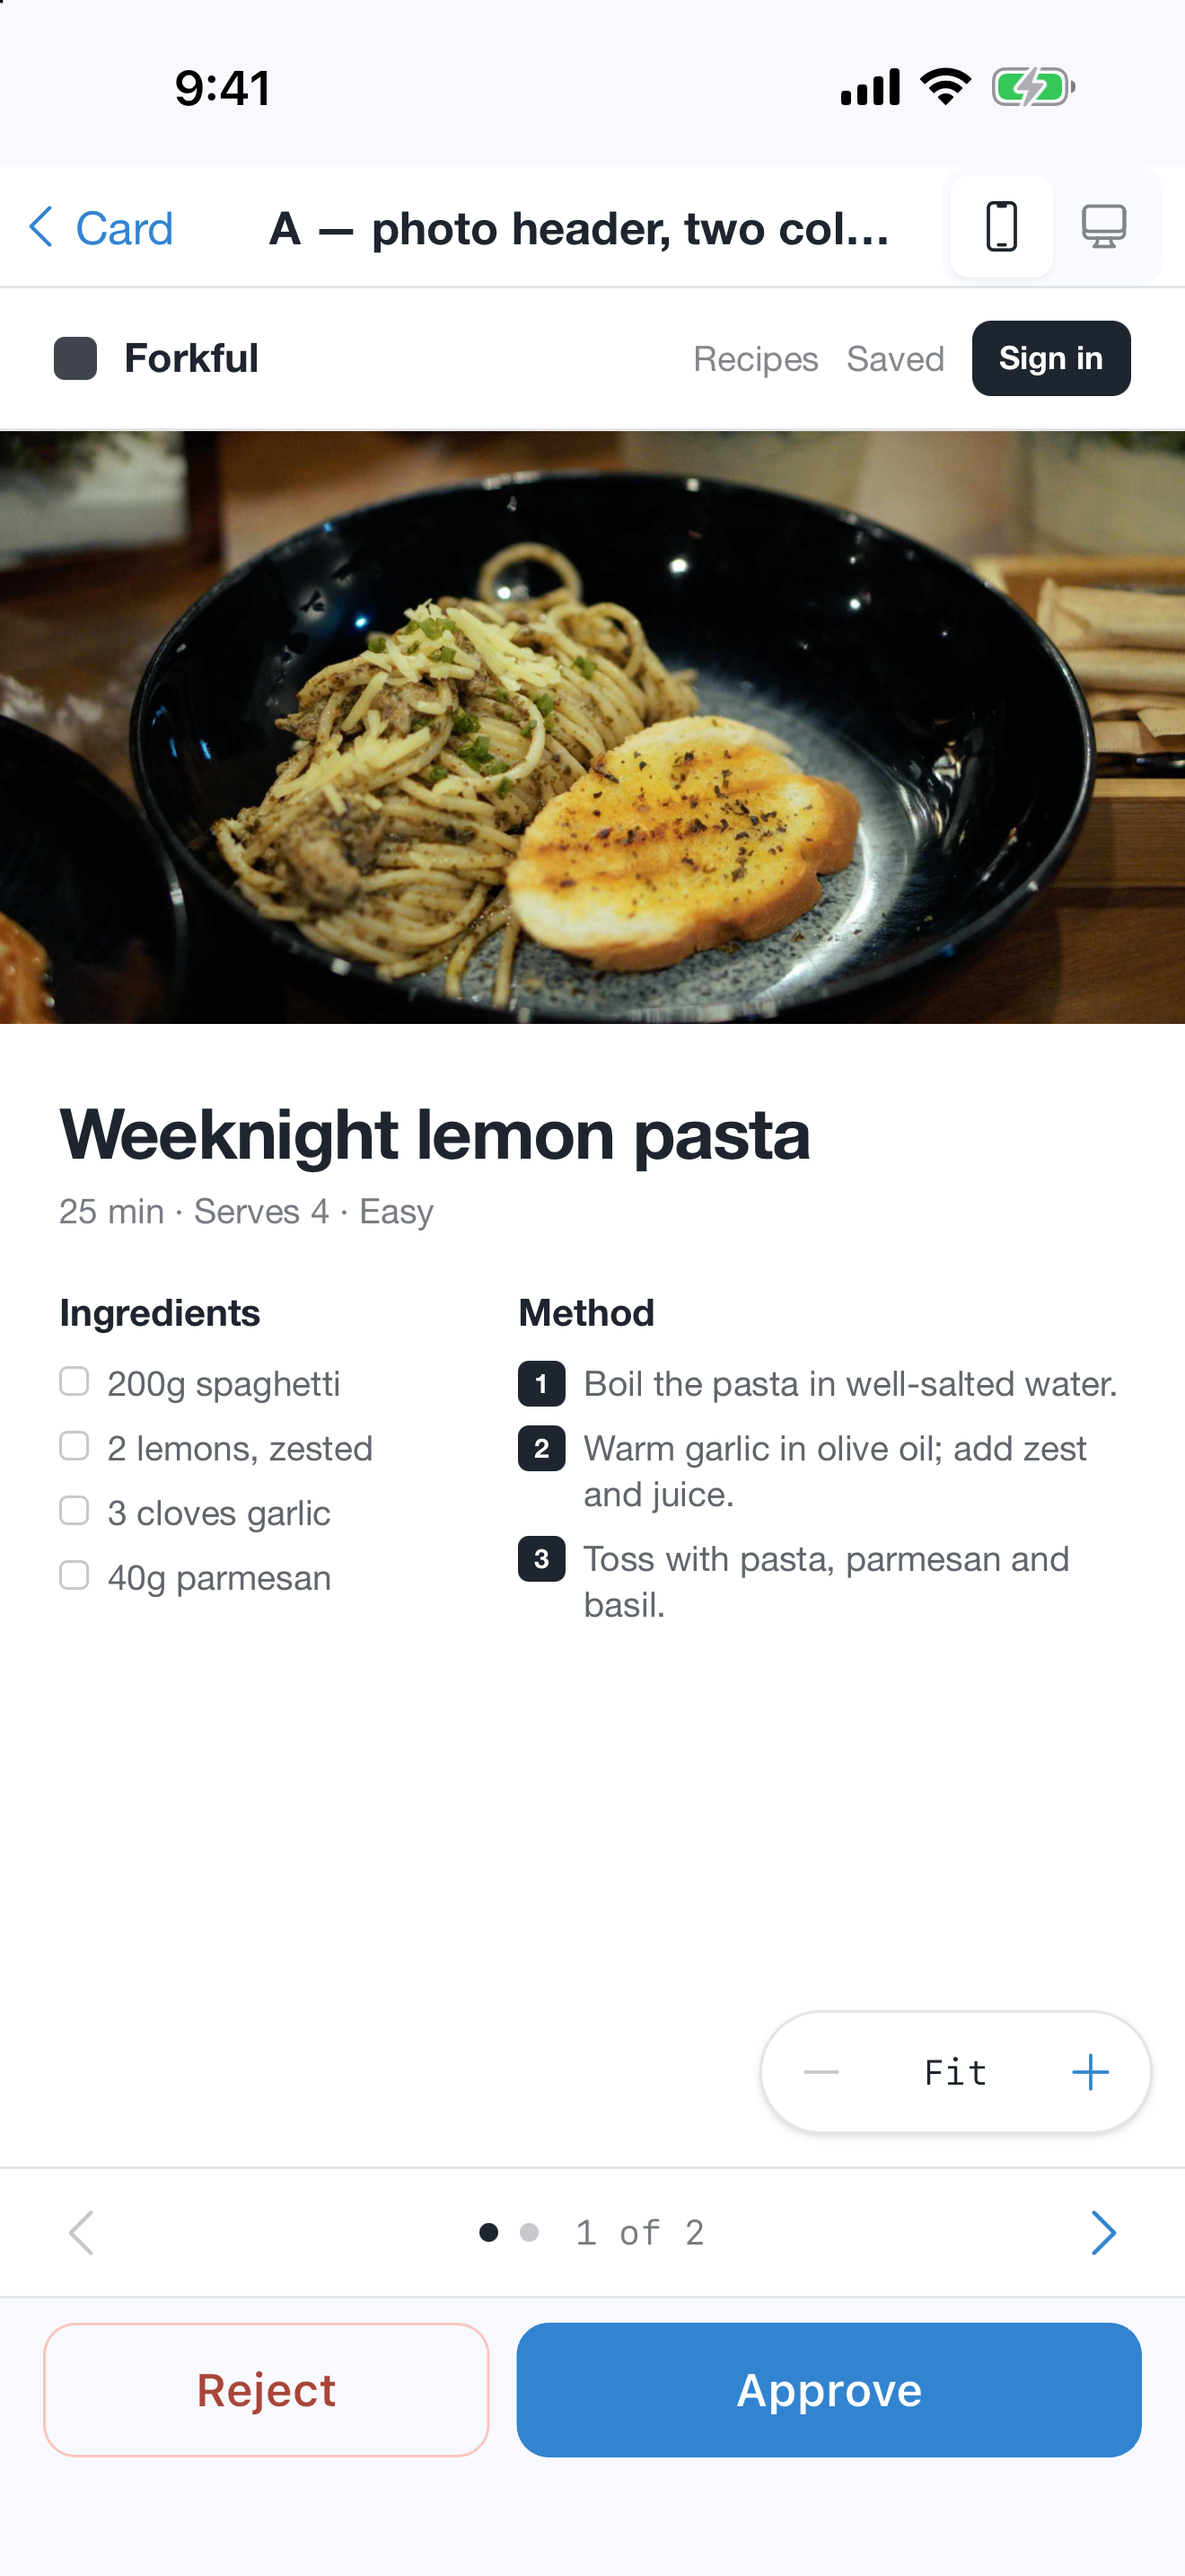
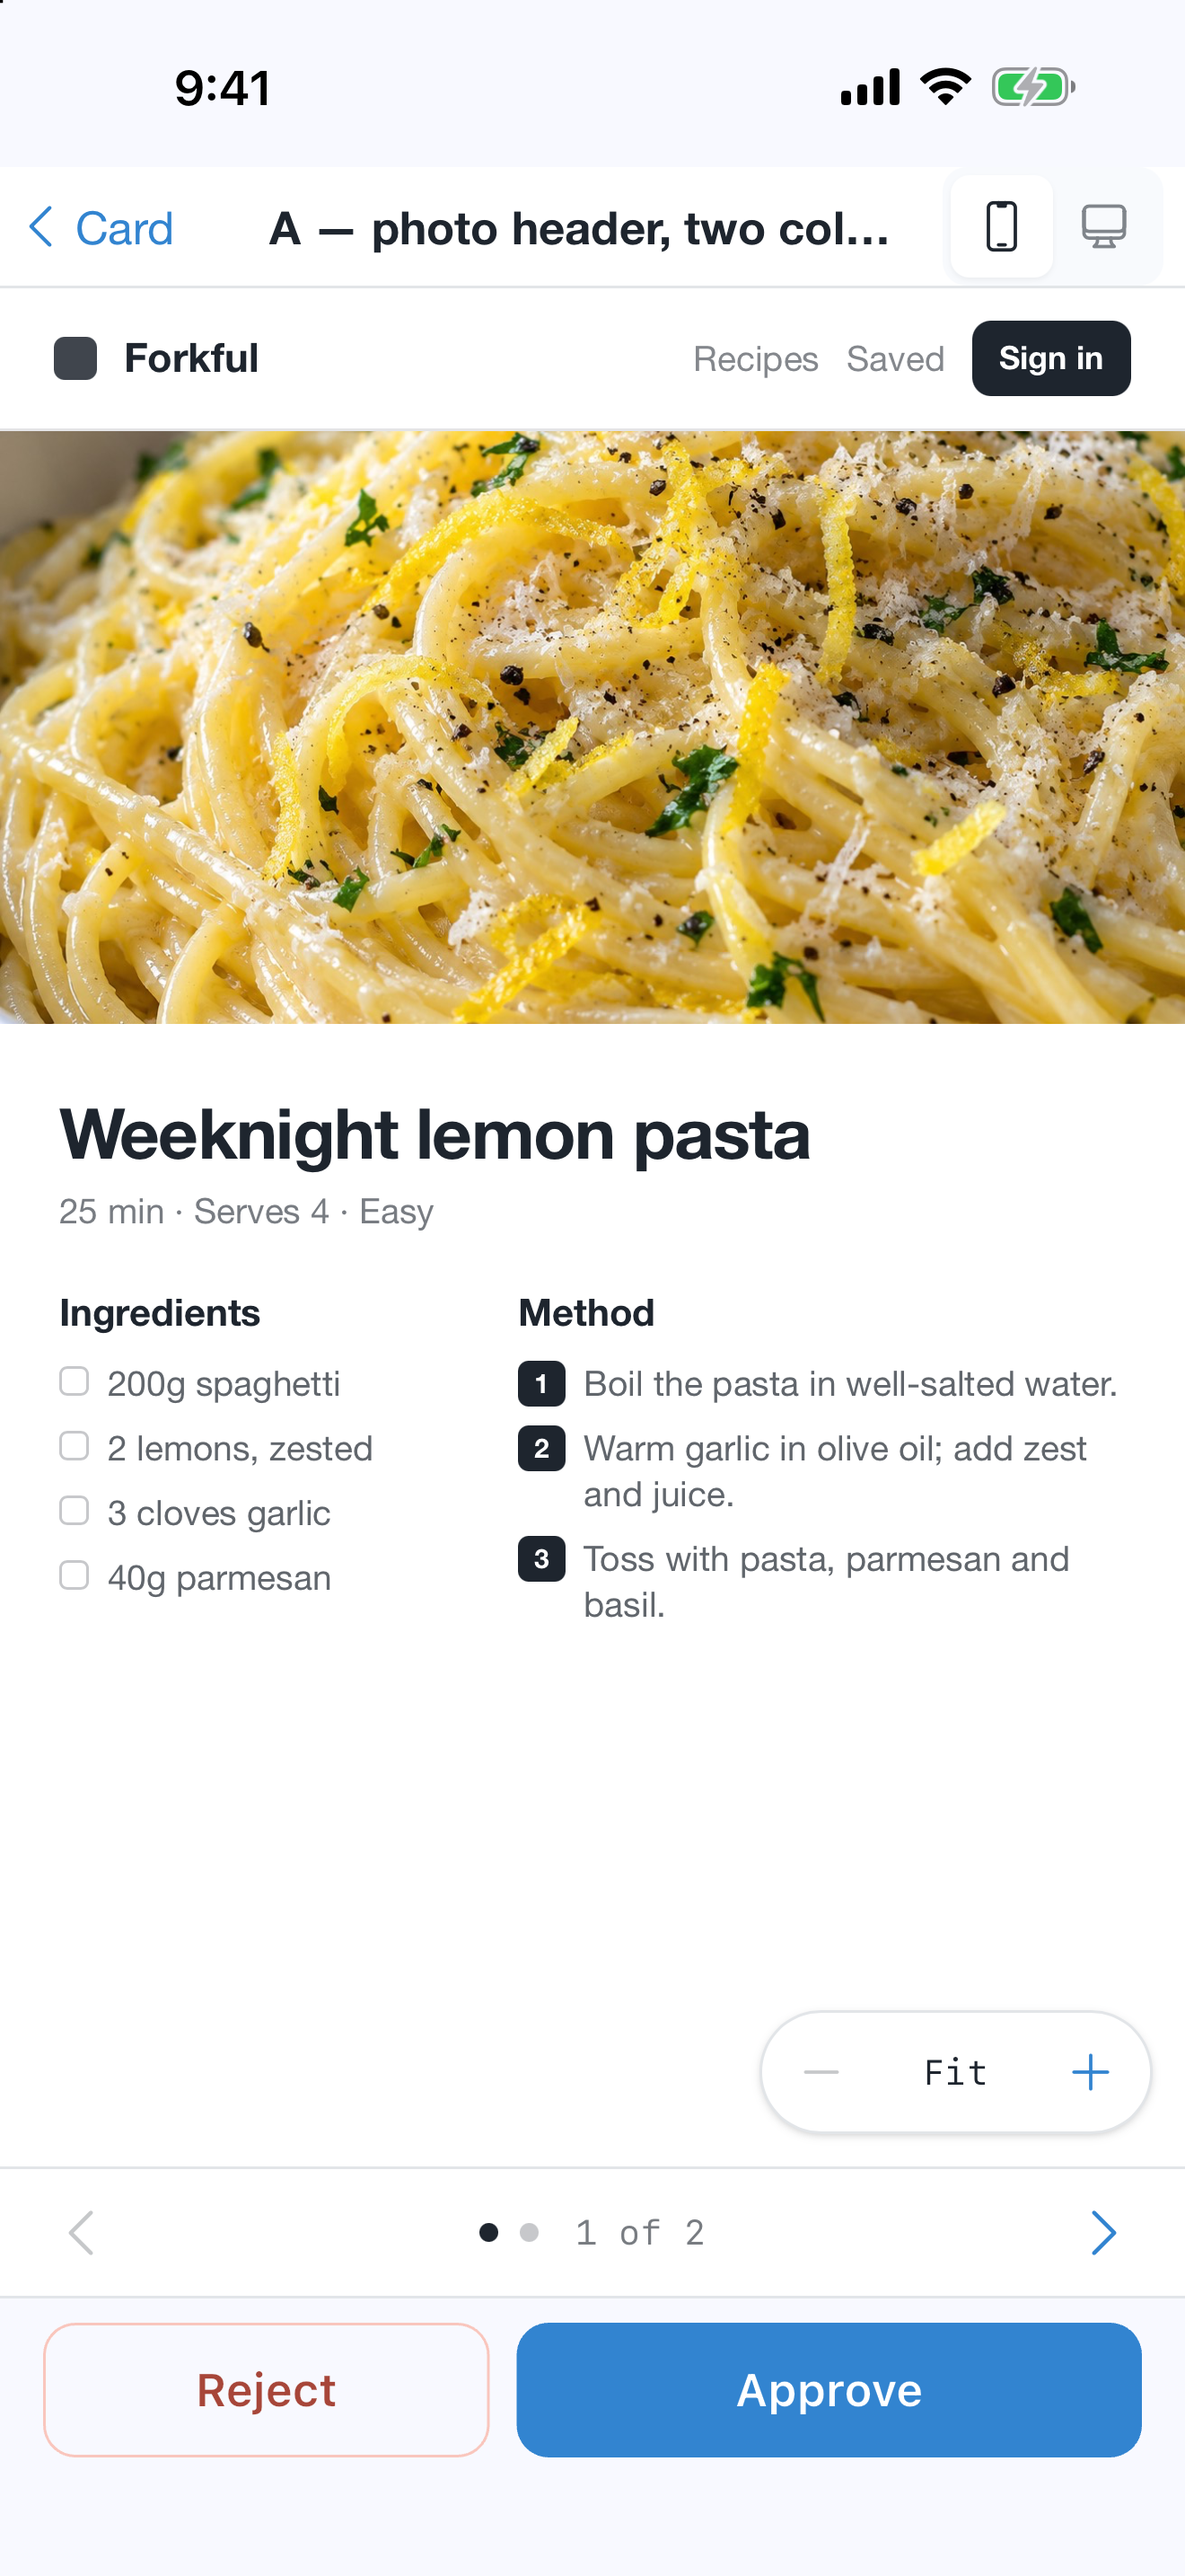
Ship the iOS app iPhone-only and recapture the store shots with our own photo
The App Store asks for 13" iPad screenshots while the target includes iPad, and the
app is designed for phones, so TARGETED_DEVICE_FAMILY is now 1 (iPads still run it
as an iPhone app) and the dead iPad orientations are gone from Info.plist.

The Forkful recipe mockup now uses a photo supplied for the store shots
("Silky lemon spaghetti with Parmesan"), and the four App Store screenshots are
recaptured and reframed from it.

Claude-Session: https://claude.ai/code/session_01YErjKsWJgihcVWjbbGVJNe

Changed region(s): [[0.0, 0.1552, 1.0, 0.4034]]

diff --git a/priv/repo/store_screenshot_seeds/PHOTO_SOURCE.md b/priv/repo/store_screenshot_seeds/PHOTO_SOURCE.md
@@ -6,12 +6,10 @@ The food photo inlined into the Forkful recipe-page mockups (`recipe_mockup_a.ht
 
 | | |
 |---|---|
-| Source page | https://commons.wikimedia.org/wiki/File:Pasta_Life.jpg |
-| File | https://upload.wikimedia.org/wikipedia/commons/4/42/Pasta_Life.jpg (original, 1920×1080, 106,846 bytes, unmodified) |
-| Title | "Pasta Life" — "Pasta for a better life, we love pasta" |
-| Author | Pitikonkoyka (own work, Wiki Loves Food 2023 in the Philippines) |
-| Licence | CC0 1.0 Universal — Public Domain Dedication (`{{self\|cc-zero}}` on the source page; Commons metadata `AttributionRequired: false`) — https://creativecommons.org/publicdomain/zero/1.0/ |
-| Retrieved | 2026-10-26 |
+| Title | "Silky lemon spaghetti with Parmesan" |
+| Source | Supplied by Jeremy Lightsmith for the store screenshots (2026-10-26) |
+| File | The supplied 1312×1199 PNG, re-encoded as JPEG (quality 72) to keep the seeded mockup small |
+| Licence | Ours to use; no credit needed |
 
-CC0 needs no credit, so the screenshots carry no attribution line. Do **not** swap in
+The screenshots carry no attribution line. Do **not** swap in
 `priv/static/images/landing/lemon-spaghetti.jpg` — that one is CC BY 2.0 and would need one.
